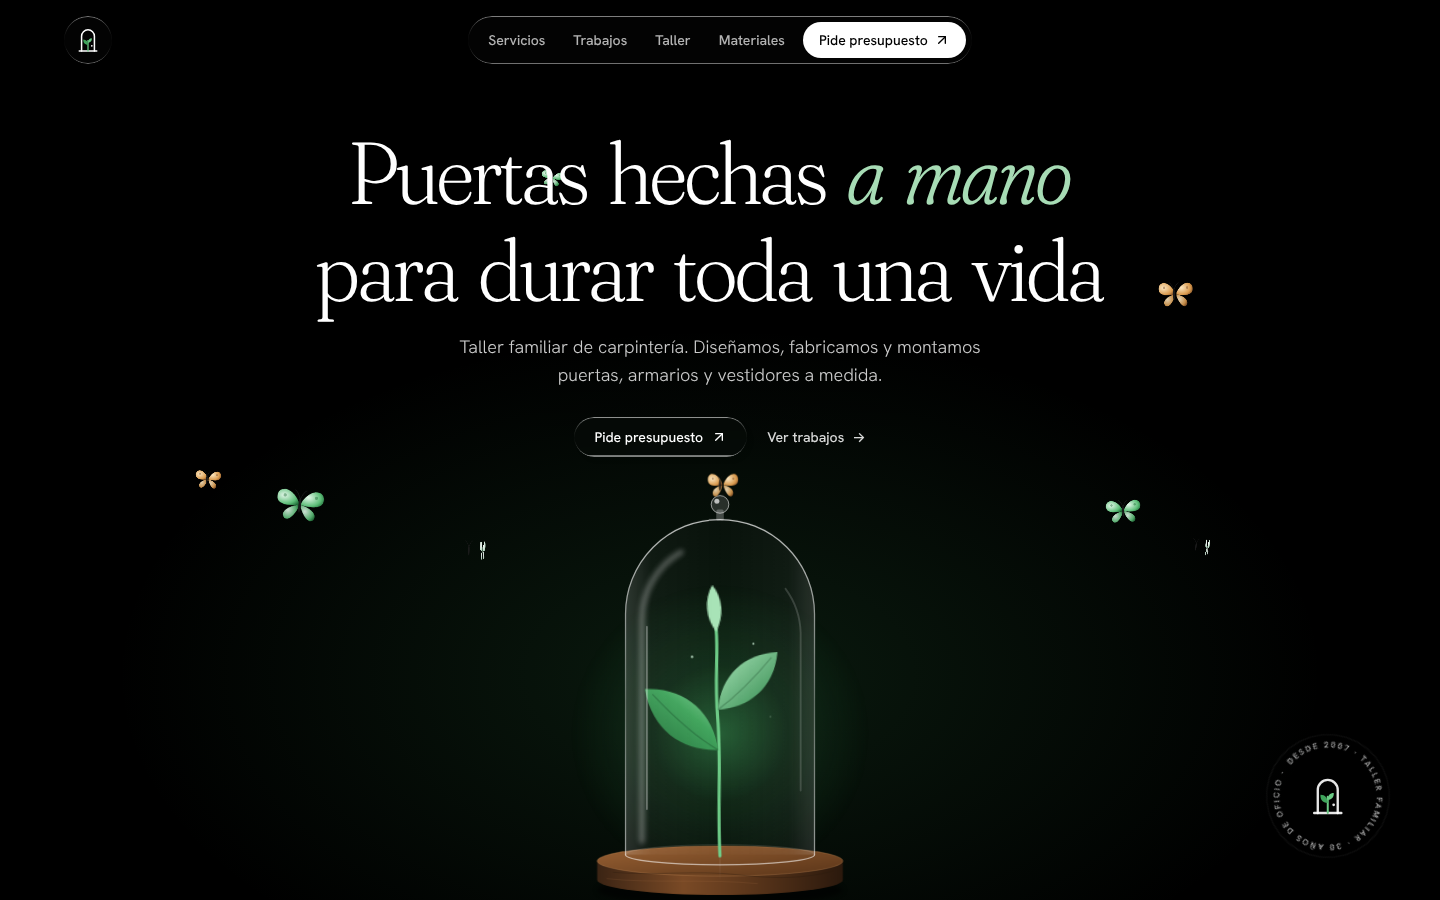
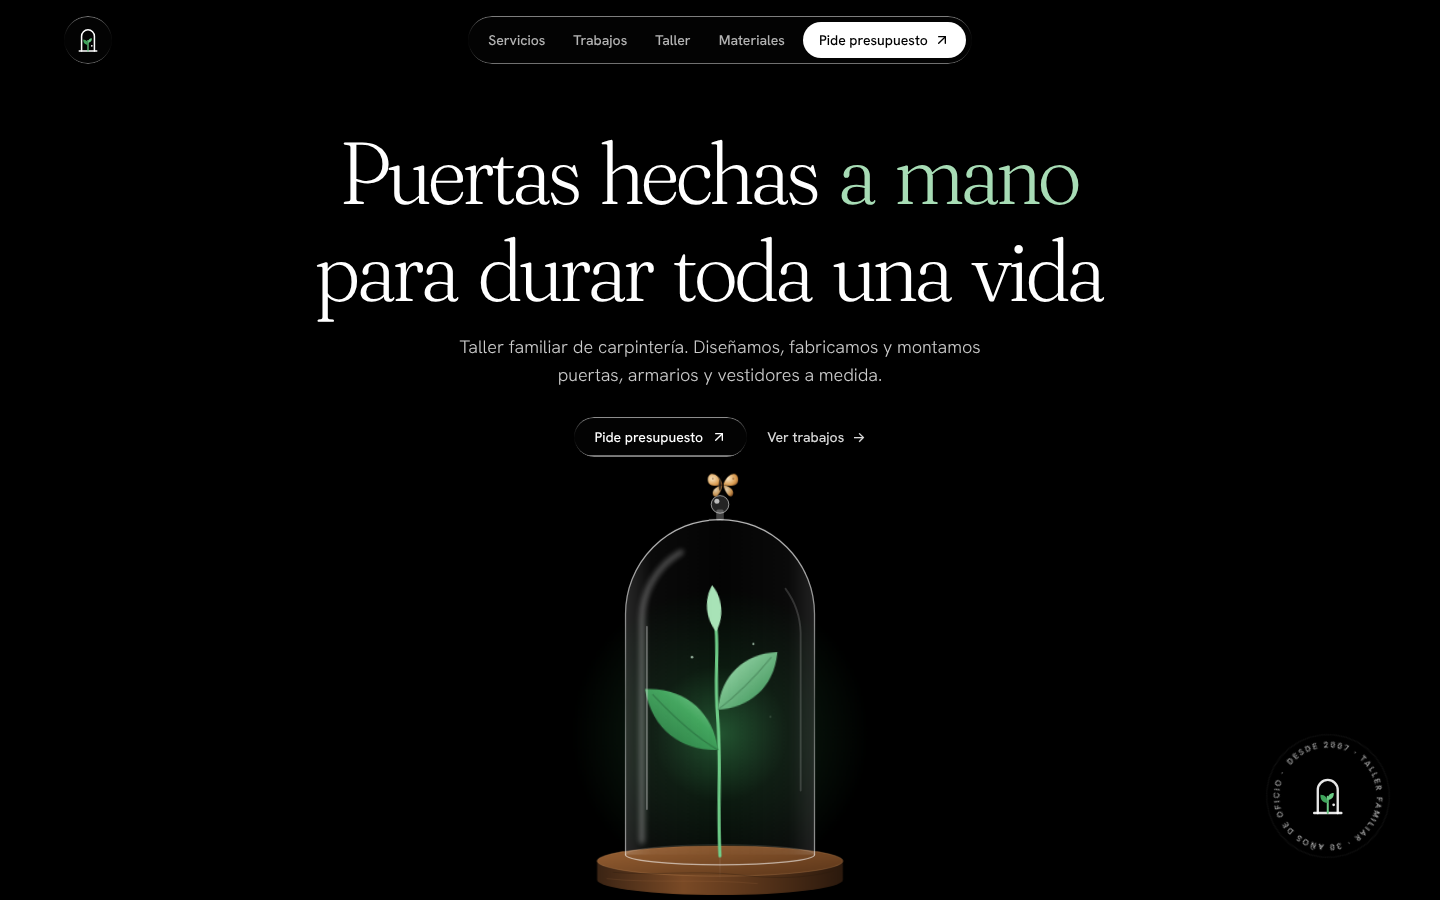
Sin cursiva: las palabras destacadas solo en verde
Claude-Session: https://claude.ai/code/session_01Ao6RVKmp1vd2jwvCaJLrqn

diff --git a/src/index.css b/src/index.css
@@ -93,8 +93,7 @@ html {
 }
 .font-heading em,
 .font-heading .em {
-  font-style: italic;
-  font-variation-settings: 'SOFT' 100, 'WONK' 1;
+  font-style: normal;
   color: #a7dcb5;
 }
 
